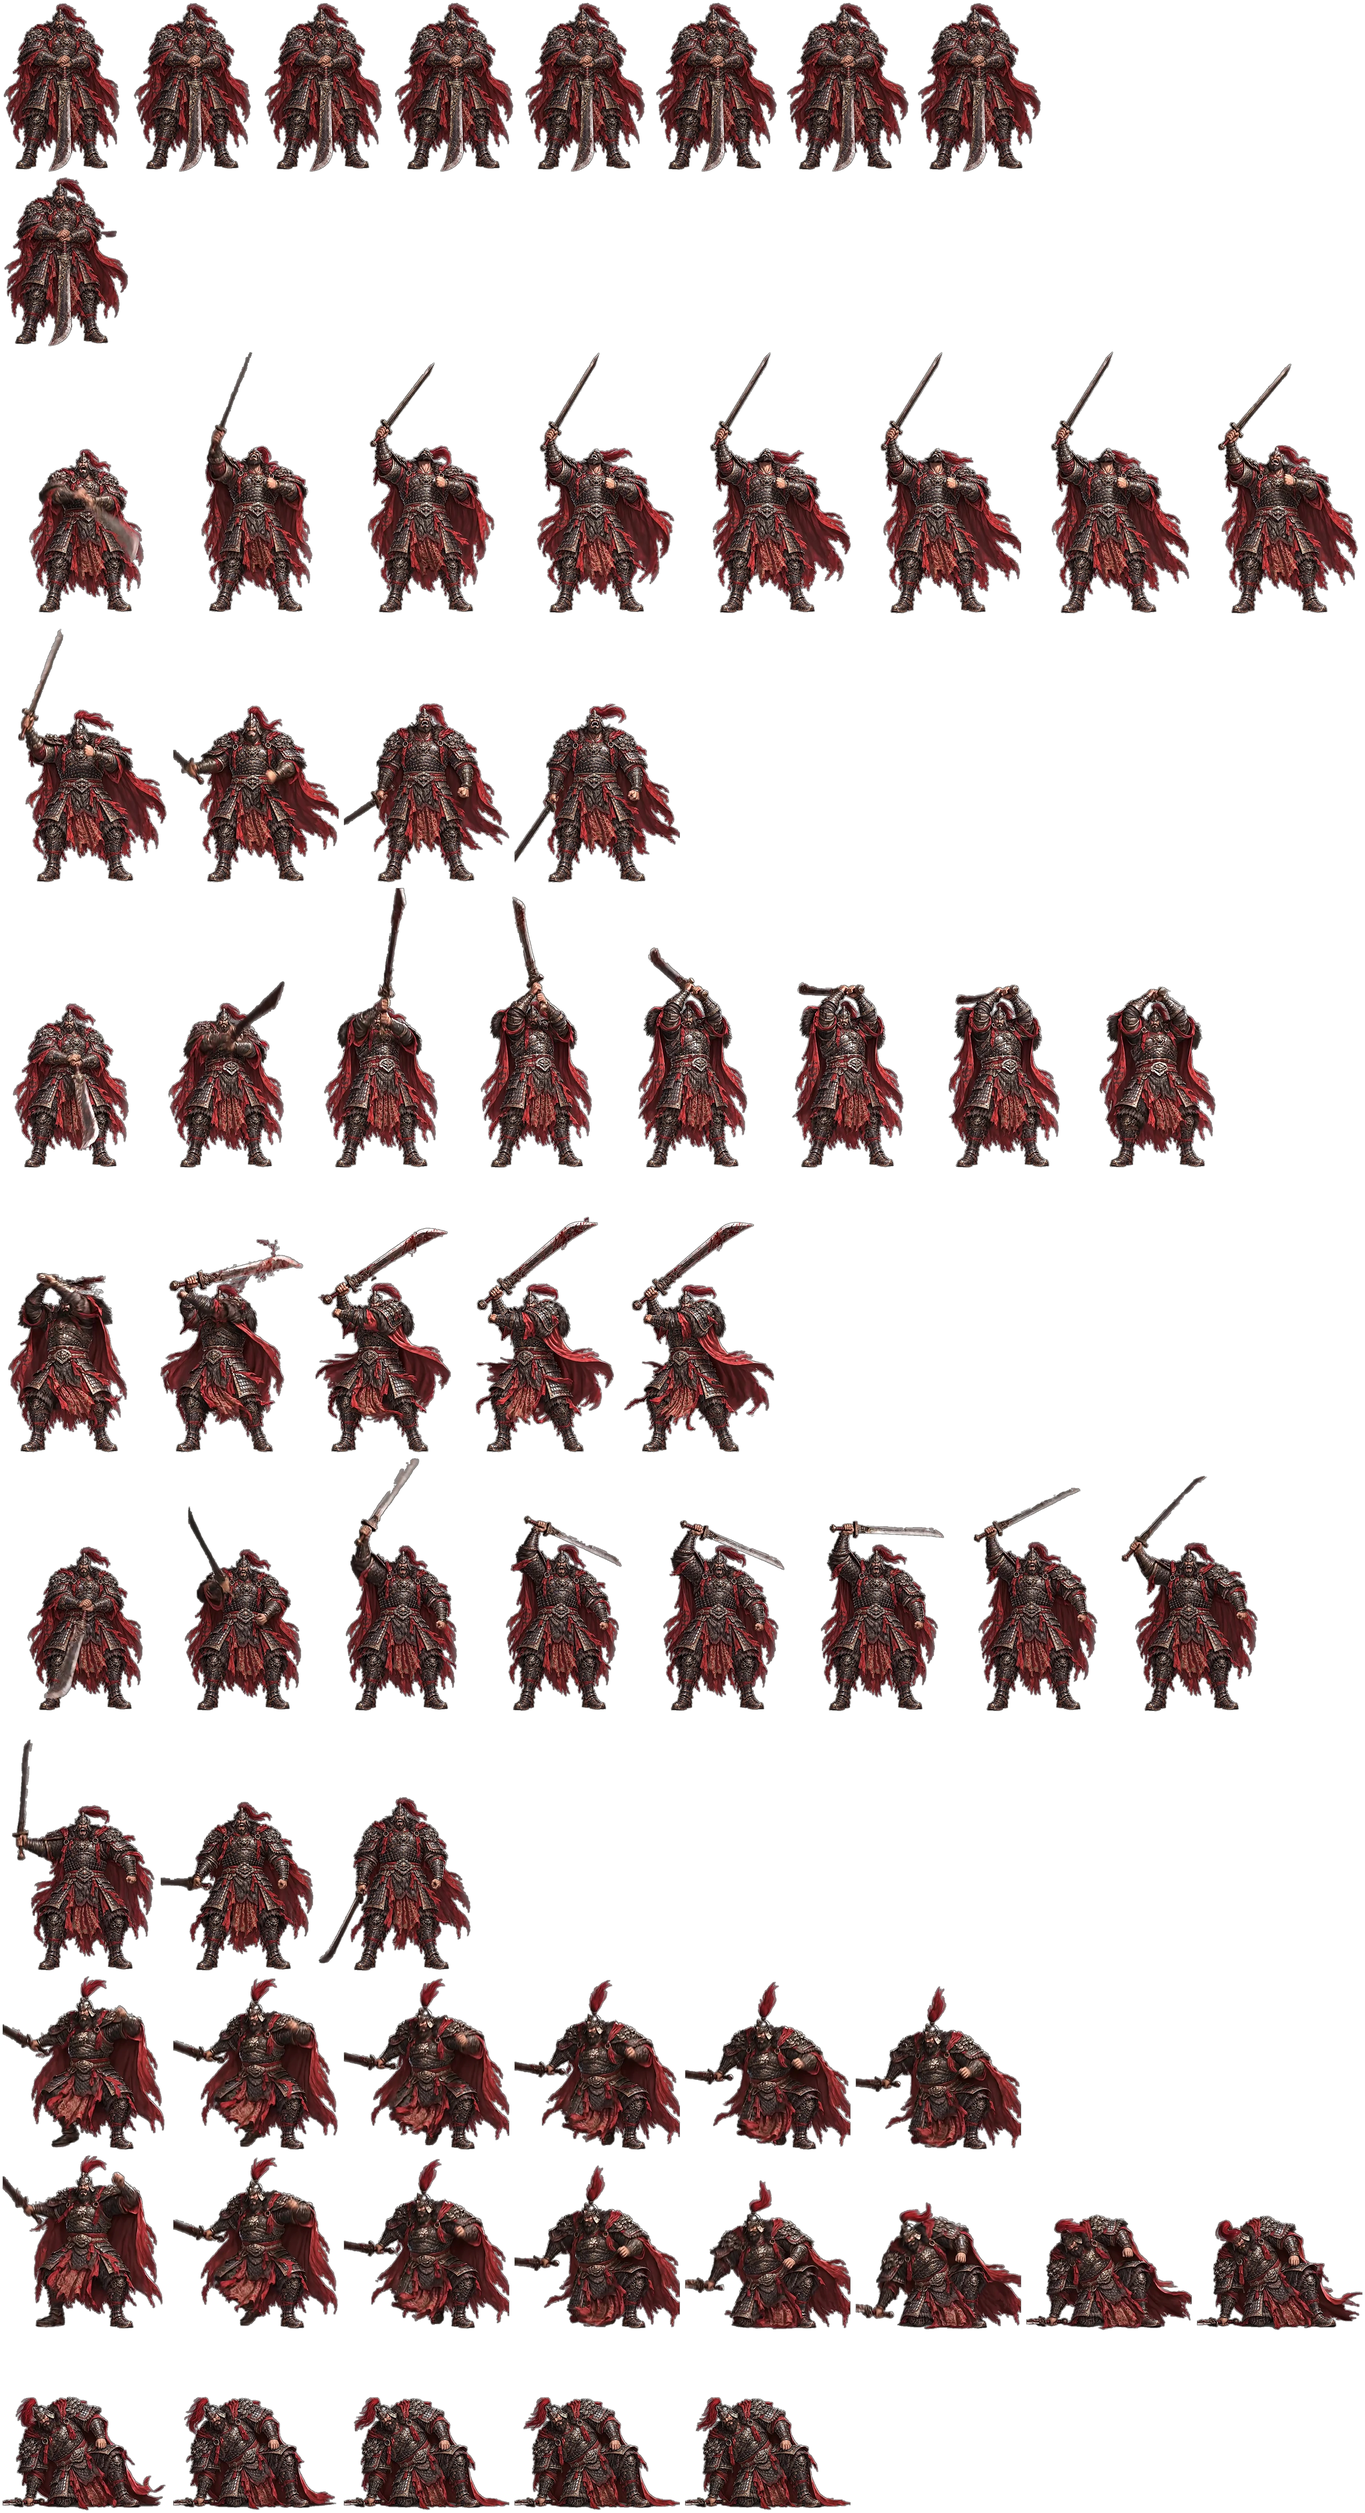
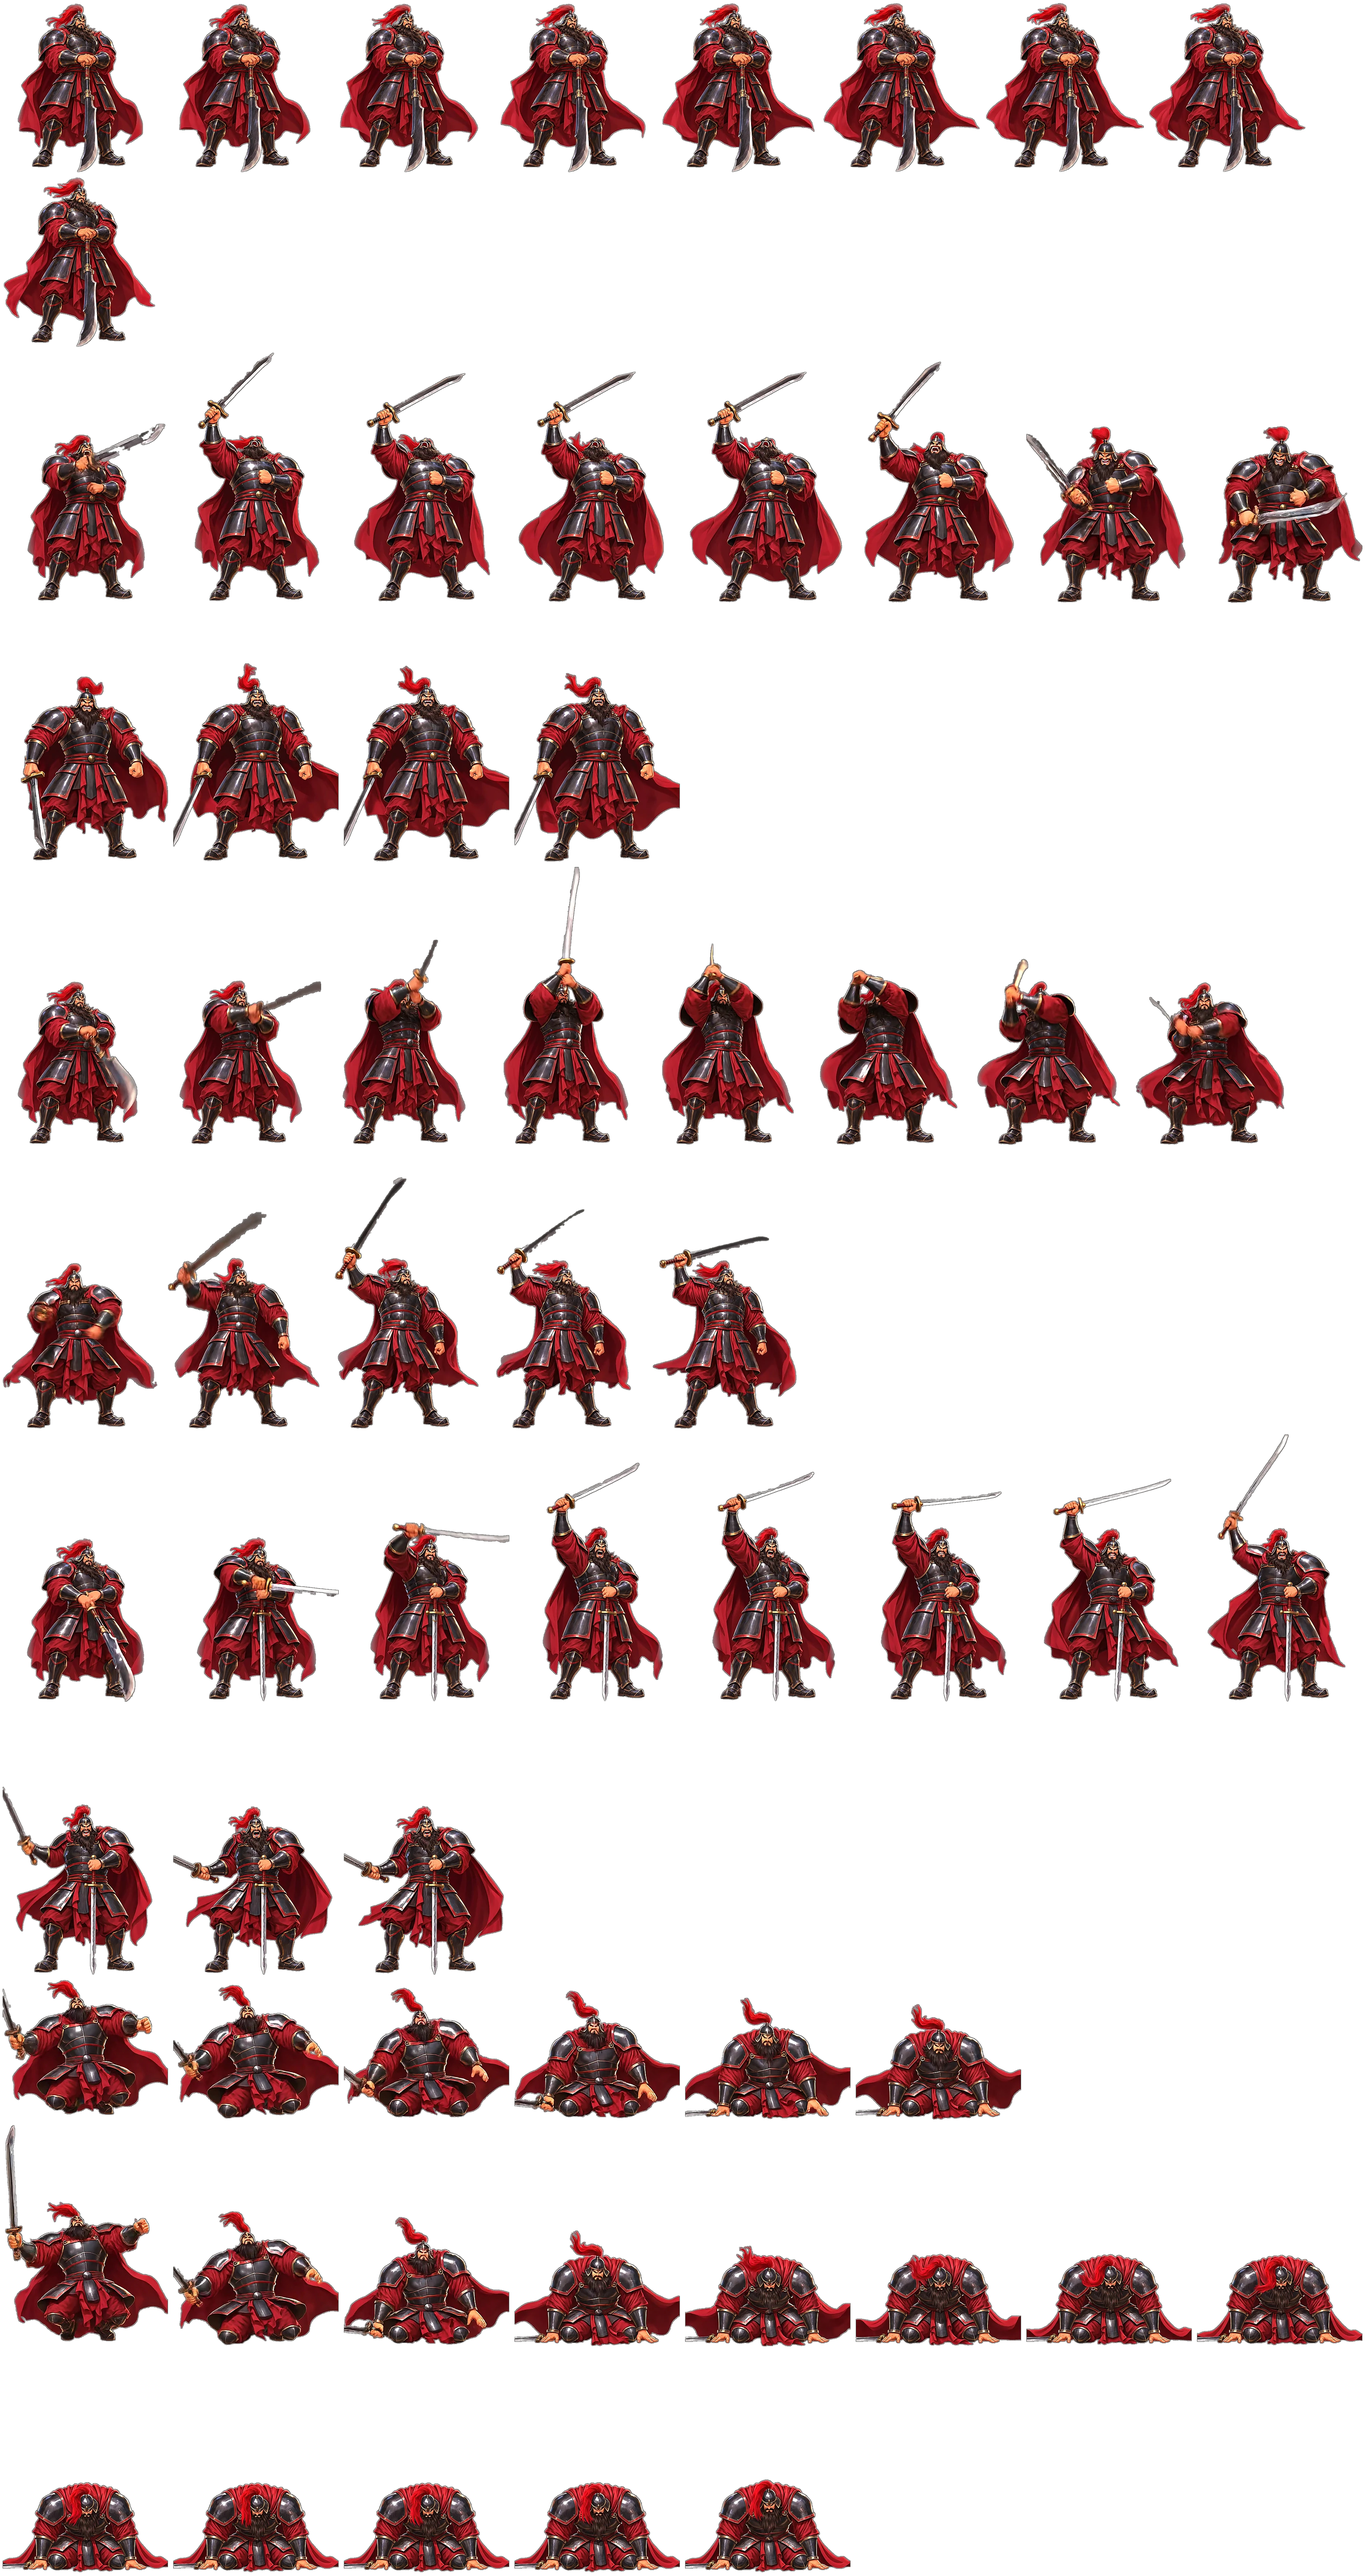
华雄、李傕、胡轸换大甲片新立绘重录 Veo（12 段 7.2 美元），440 高重切、轻锐化

diff --git a/工具/veo/make_foe_pack3.py b/工具/veo/make_foe_pack3.py
@@ -1,0 +1,44 @@
+"""华雄、李傕、胡轸大甲片版重录（10-29）。用户：「要不要这三个盔甲简化大块一些？」「写」「10 美元」。
+首帧：美术/<名>/正面.png（Codex 画的大甲片新立绘，中灰底 2:3），补 9:16 的办法、镜头和反向提示词全照 make_foe_pack2.py。
+只录切图用得到的段（cut_generals.py 的 PLAN）：胡轸待机取连斩收势那几帧，所以不录 idle；共 12 条 × 4 秒 × .15 ≈ 7.2 美元。
+输出 <输出目录>/foe_pack3.tar.gz = ref_<键>.jpg + shots_foe3.json + veo_wendao.py，在 Cloud Shell 里：
+  SHOTS=shots_foe3.json SECONDS=4 CAP_USD=10 python3 veo_wendao.py
+用法：<media-venv>/bin/python 三国志/工具/veo/make_foe_pack3.py <输出目录>
+"""
+import io, json, sys, tarfile
+from pathlib import Path
+HERE = Path(__file__).resolve().parent; ROOT = HERE.parents[1]; VEO = ROOT.parent / '修仙' / '工具' / '问道' / 'veo_wendao.py'
+out = Path(sys.argv[1]); out.mkdir(parents=True, exist_ok=True)
+src = (HERE / 'make_foe_pack2.py').read_text(encoding='utf-8').split('\nSHOTS = {')[0]
+g = {'__file__': str(HERE / 'make_foe_pack2.py'), 'sys': type('S', (), {'argv': ['', str(out)]})}; exec(src, g)
+ref, BASE, TAIL, NEG, IDLE, SUMMON, DIE = (g[k] for k in ('ref', 'BASE', 'TAIL', 'NEG', 'IDLE', 'SUMMON', 'DIE'))
+PLATES = "His armor is made of a few large smooth plates (big shoulder plates, one solid breastplate, large thigh plates) with simple highlights, no scales and no small pieces"
+SHOTS = {
+ 'huzhen': ('胡轸', "the Dong Zhuo general Hu Zhen, a sturdy round-faced man with thick brows and a short beard, in bright polished steel armor trimmed with earthy gold, a round steel helmet with a short golden plume, an ochre robe and a big ochre-gold scarf over his shoulder, a straight sabre in each hand. " + PLATES, [
+   ('combo', "lunges toward the camera and slashes with both sabres in a fast cross-cut, left then right, then a final double downward chop, and steps back into his stance."),
+   ('summon', SUMMON),
+   ('die', DIE)]),
+ 'huaxiong': ('华雄', "the Dong Zhuo general Hua Xiong, a huge black-bearded warrior in black-iron armor trimmed with dark red, a round black-iron helmet with a red tassel, a dark-red robe and a huge dark-red cape, both hands resting on the hilt of a broad heavy sabre planted point-down in front of him. " + PLATES, [
+   ('idle', IDLE),
+   ('taunt', "points the heavy sabre up at the camera as if at the city wall above, throws his head back and bellows insults, beats his chest with his fist and laughs scornfully."),
+   ('heavy', "lifts the broad heavy sabre high over his head with both hands and brings it crashing down toward the camera in one huge chop, then heaves it back up to his shoulder."),
+   ('summon', SUMMON),
+   ('die', DIE)]),
+ 'lijue': ('李傕', "the Dong Zhuo general Li Jue, a lean long-faced man with narrow eyes, a thin moustache and a sly grin, in bronze armor trimmed with deep purple, a pointed bronze helmet with a long deep-purple plume, a deep-purple robe and short cape, holding a broad-backed sabre across his body. " + PLATES, [
+   ('idle', IDLE),
+   ('heavy', "swings his broad sabre in one wide horizontal sweep from right to left across the front of the camera, then back to his stance."),
+   ('summon', SUMMON),
+   ('die', DIE)]),
+}
+shots = []
+for k, (_, who, acts) in SHOTS.items():
+    for i, (act, motion) in enumerate(acts):
+        shots.append({'id': f'{k}{i}_{act}', 'ref': k, 'prompt': BASE + 'He is ' + who + '. He ' + motion + TAIL, 'neg': NEG})
+with tarfile.open(out / 'foe_pack3.tar.gz', 'w:gz') as tar:
+    def add(name, data):
+        ti = tarfile.TarInfo(name); ti.size = len(data); tar.addfile(ti, io.BytesIO(data))
+    for k, (nm, _, _) in SHOTS.items():
+        data = ref(ROOT / '美术' / nm / '正面.png'); add(f'ref_{k}.jpg', data); (out / f'ref_{k}.jpg').write_bytes(data)
+    add('shots_foe3.json', json.dumps(shots, ensure_ascii=False, indent=1).encode())
+    add('veo_wendao.py', VEO.read_bytes())
+print('包', out / 'foe_pack3.tar.gz', (out / 'foe_pack3.tar.gz').stat().st_size // 1024, 'KB，', len(shots), '条，约', round(len(shots) * 4 * .15, 1), '美元')
